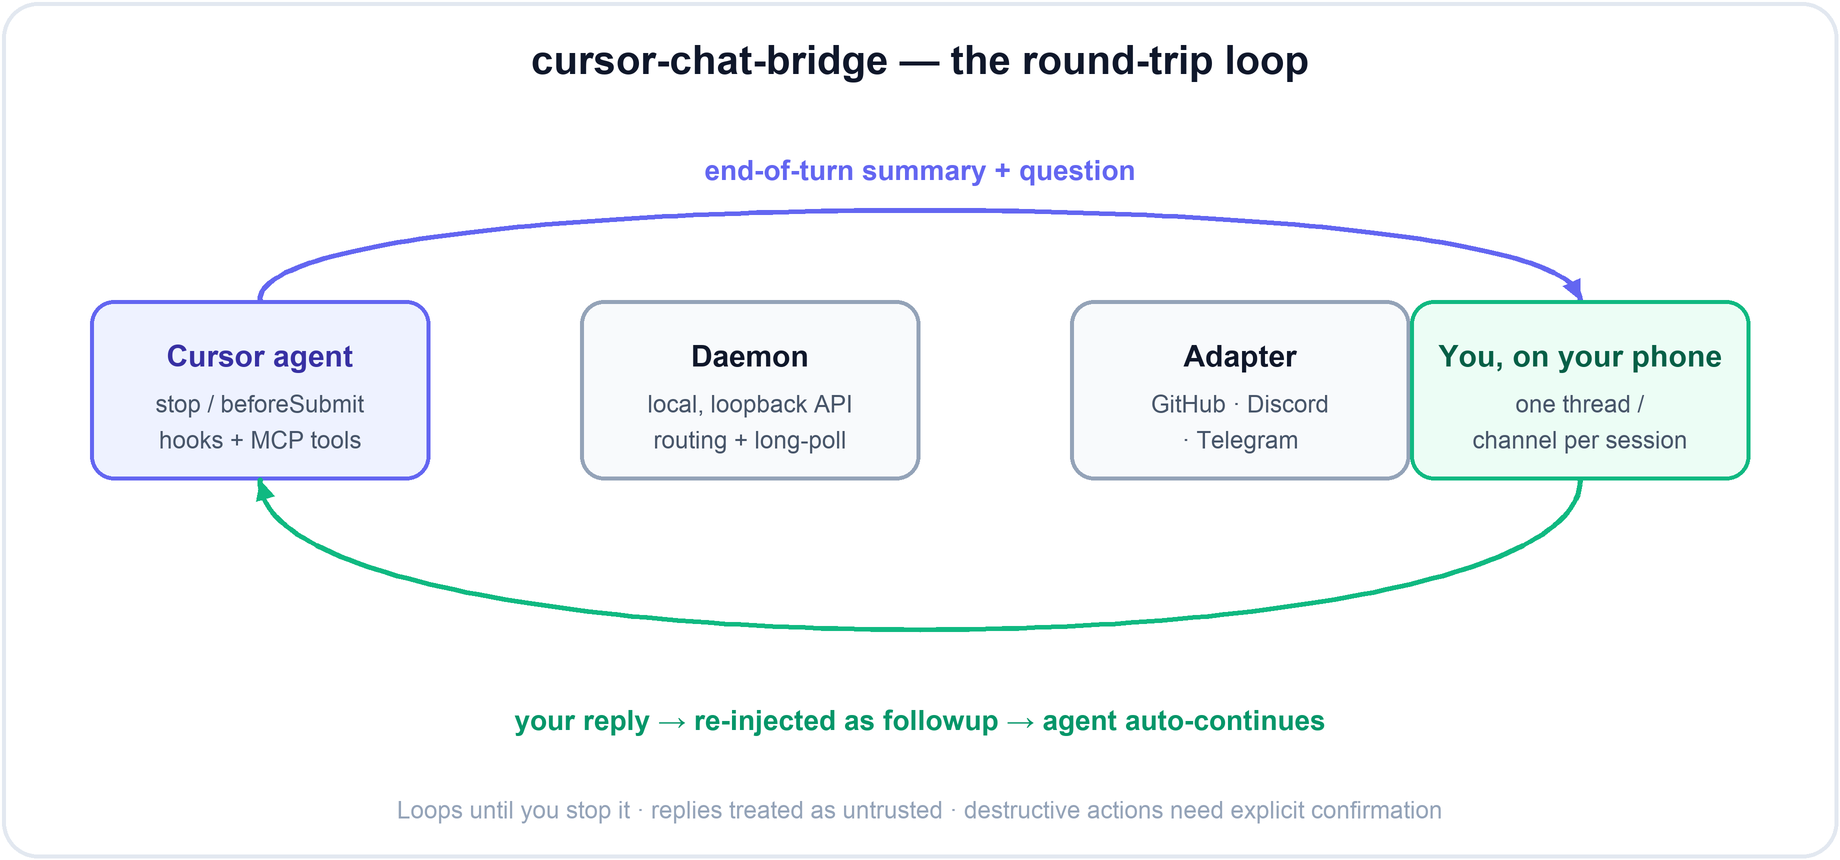
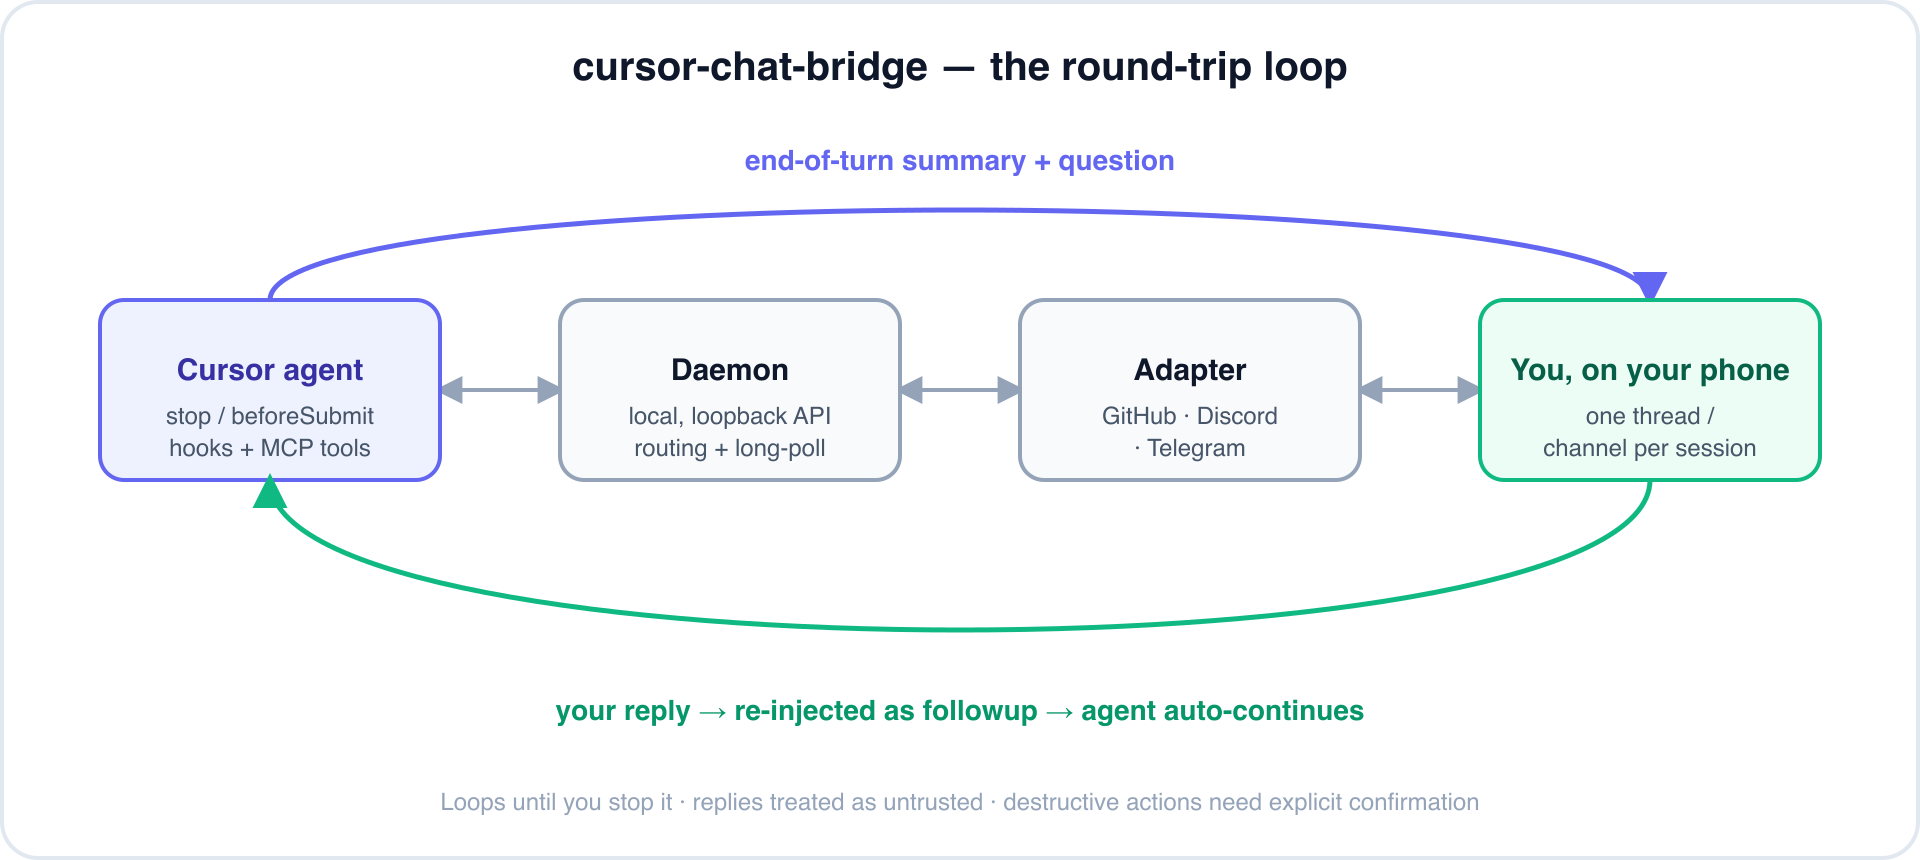
docs: fix architecture diagram (even spacing + stage arrows) and add YouTube demo thumbnail
- architecture.svg/.png: widen canvas to 960px for uniform box gaps; add
  gray double-headed connectors showing the agent<->daemon<->adapter<->phone
  pipeline; re-rendered at 2x with rsvg-convert
- README: clickable YouTube demo thumbnail (renders on GitHub + npm)
- bump 0.1.11

diff --git a/README.md b/README.md
@@ -35,8 +35,13 @@ looping until you stop it. Step away from the keyboard; keep shipping from your 
   </tr>
 </table>
 
-<!-- Maintainers: drop a screen recording at docs/demo.gif and uncomment the line below. -->
-<!-- ![demo](docs/demo.gif) -->
+<br/>
+
+<a href="https://youtu.be/J9QKn9hTBAU">
+  <img src="https://img.youtube.com/vi/J9QKn9hTBAU/maxresdefault.jpg" alt="Watch the cursor-chat-bridge demo on YouTube" width="640">
+</a>
+<br/>
+<sub>▶ <b>Watch the demo</b> (YouTube)</sub>
 
 </div>
 